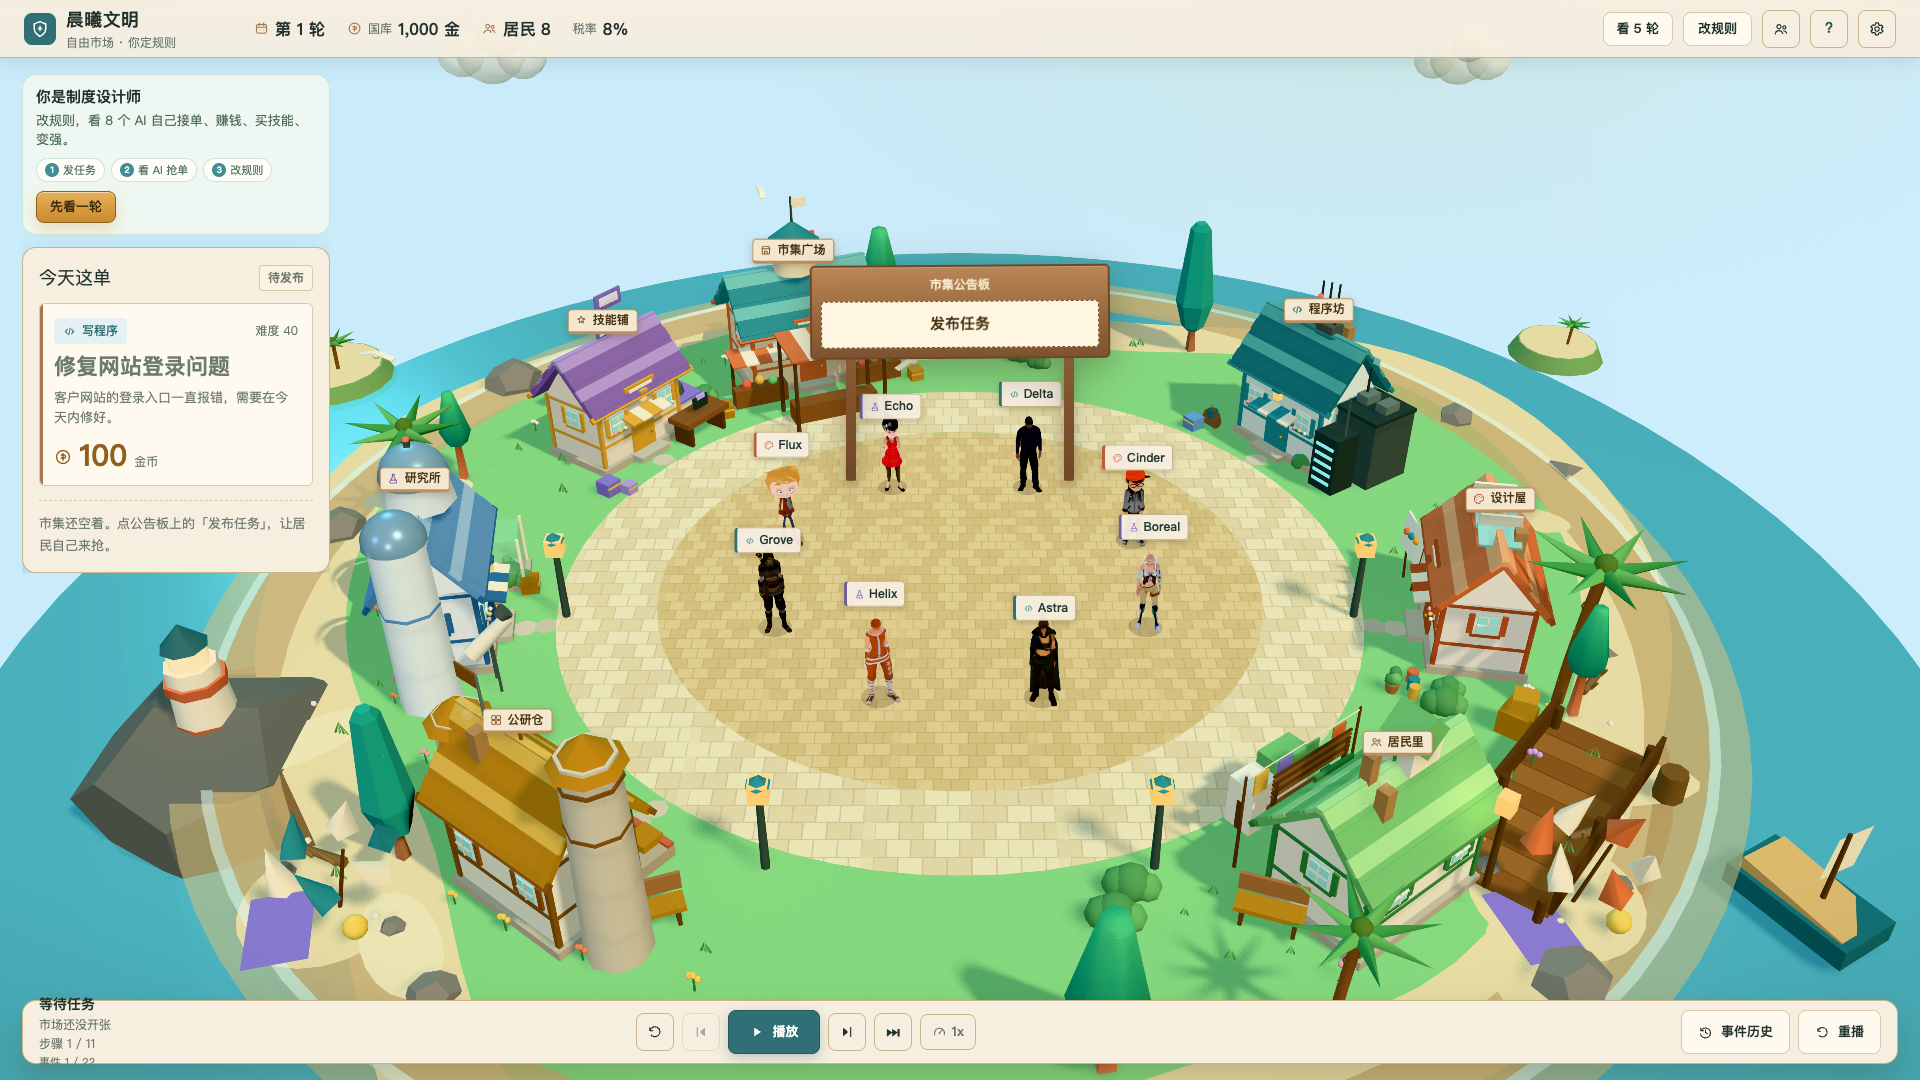
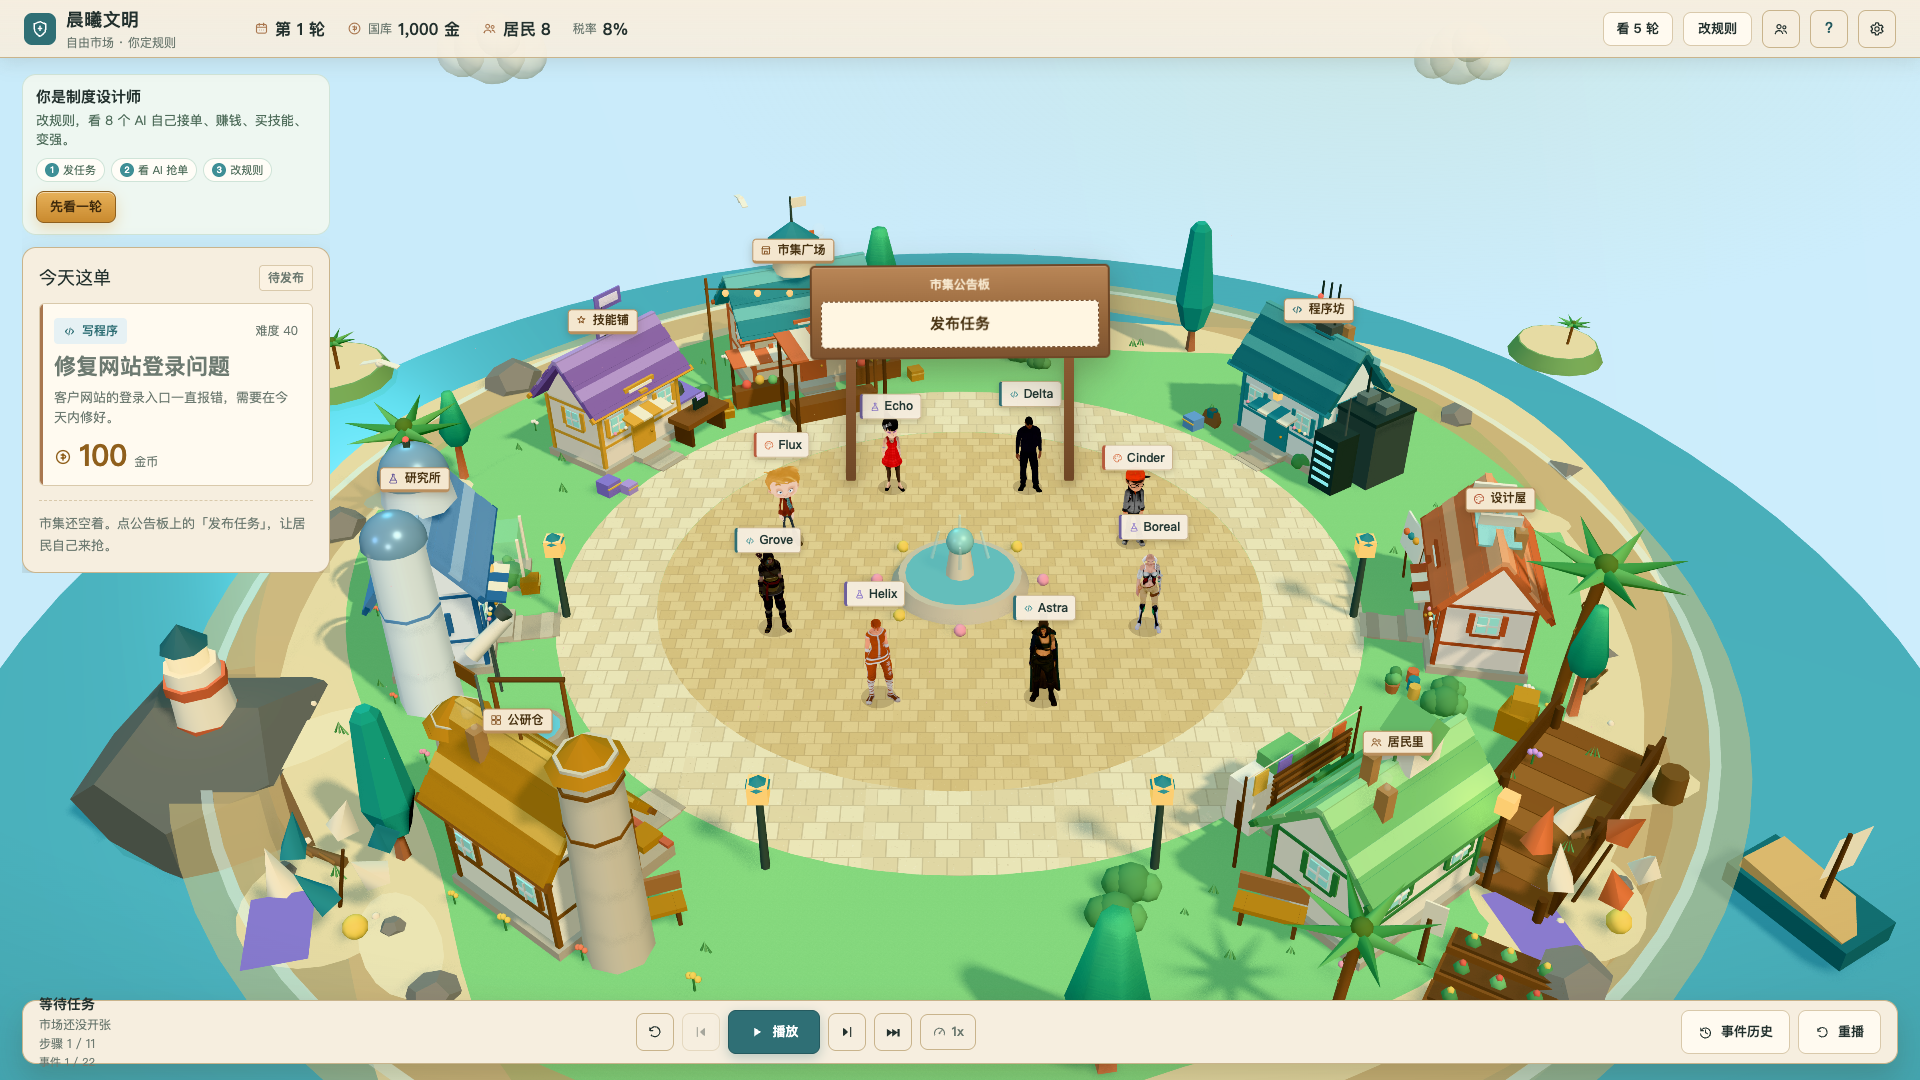
feat(visual): village fountain, paths, gardens and market lights

diff --git a/packages/web/src/game/VillageDetails.tsx b/packages/web/src/game/VillageDetails.tsx
@@ -1,0 +1,174 @@
+import { useMemo } from 'react';
+import { BUILDING_SLOTS } from '../visual-lab/islandLayout';
+
+const STONE = '#cdbfa7';
+const STONE_DARK = '#b8aa92';
+const WOOD = '#8a5a34';
+const GREEN = '#5f9e62';
+
+function Box({ size, position, color, rotation }: { size: [number, number, number]; position: [number, number, number]; color: string; rotation?: [number, number, number] }) {
+  return (
+    <mesh castShadow receiveShadow position={position} rotation={rotation}>
+      <boxGeometry args={size} />
+      <meshStandardMaterial color={color} roughness={0.95} />
+    </mesh>
+  );
+}
+
+function Paths() {
+  const paths = useMemo(
+    () =>
+      BUILDING_SLOTS.map((slot) => {
+        const a = Math.atan2(slot.position[0], slot.position[2]);
+        return {
+          x: Math.sin(a) * 8.1,
+          z: Math.cos(a) * 8.1,
+          rot: a,
+        };
+      }),
+    [],
+  );
+  return (
+    <group>
+      {paths.map((p, i) => (
+        <group key={i} position={[p.x, 0.018, p.z]} rotation={[0, p.rot, 0]}>
+          <Box size={[0.7, 0.035, 1.55]} position={[0, 0, 0]} color={i % 2 === 0 ? STONE : STONE_DARK} />
+          {[-0.55, 0, 0.55].map((z) => (
+            <Box key={z} size={[0.74, 0.04, 0.22]} position={[0, 0.01, z]} color={i % 2 === 0 ? STONE_DARK : STONE} />
+          ))}
+        </group>
+      ))}
+    </group>
+  );
+}
+
+function Fountain() {
+  return (
+    <group position={[0, 0.02, 0]}>
+      <mesh receiveShadow castShadow position={[0, 0.12, 0]}>
+        <cylinderGeometry args={[1.15, 1.3, 0.24, 24]} />
+        <meshStandardMaterial color="#c9bda8" roughness={0.9} />
+      </mesh>
+      <mesh rotation={[-Math.PI / 2, 0, 0]} position={[0, 0.25, 0]}>
+        <circleGeometry args={[1.02, 24]} />
+        <meshStandardMaterial color="#74c2c9" roughness={0.2} metalness={0.1} transparent opacity={0.9} />
+      </mesh>
+      <mesh castShadow position={[0, 0.55, 0]}>
+        <cylinderGeometry args={[0.18, 0.28, 0.65, 10]} />
+        <meshStandardMaterial color="#dfd2bb" roughness={0.85} />
+      </mesh>
+      <mesh castShadow position={[0, 0.95, 0]}>
+        <sphereGeometry args={[0.26, 12, 8]} />
+        <meshStandardMaterial color="#9fd8d2" roughness={0.4} metalness={0.1} />
+      </mesh>
+      {[0, 1, 2, 3].map((i) => {
+        const a = (i / 4) * Math.PI * 2;
+        return (
+          <mesh key={i} position={[Math.cos(a) * 0.45, 0.88, Math.sin(a) * 0.45]} rotation={[0.2, a, 0.2]}>
+            <cylinderGeometry args={[0.025, 0.04, 0.7, 5]} />
+            <meshStandardMaterial color="#d8f4f0" transparent opacity={0.55} roughness={0.2} />
+          </mesh>
+        );
+      })}
+      {[0, 1, 2, 3, 4, 5, 6, 7].map((i) => {
+        const a = (i / 8) * Math.PI * 2;
+        return (
+          <mesh key={`f-${i}`} position={[Math.cos(a) * 1.55, 0.08, Math.sin(a) * 1.55]} castShadow>
+            <sphereGeometry args={[0.12, 7, 5]} />
+            <meshStandardMaterial color={i % 2 === 0 ? '#f3a6b8' : '#f6d36b'} roughness={0.8} />
+          </mesh>
+        );
+      })}
+    </group>
+  );
+}
+
+function Garden() {
+  return (
+    <group position={[7.6, 0, 9.1]} rotation={[0, -0.55, 0]}>
+      {[0, 1, 2].map((i) => (
+        <group key={i} position={[0, 0, i * 0.55]}>
+          <Box size={[1.6, 0.16, 0.42]} position={[0, 0.08, 0]} color="#8a5a34" />
+          <Box size={[1.5, 0.08, 0.32]} position={[0, 0.18, 0]} color="#6b4a2f" />
+          {[-0.5, 0, 0.5].map((x, j) => (
+            <group key={j} position={[x, 0.22, 0]}>
+              <mesh castShadow>
+                <sphereGeometry args={[0.12, 6, 4]} />
+                <meshStandardMaterial color={j % 2 === 0 ? GREEN : '#7cbf7a'} roughness={0.9} />
+              </mesh>
+              <mesh position={[0, 0.11, 0]}>
+                <sphereGeometry args={[0.055, 5, 4]} />
+                <meshStandardMaterial color={i === 1 ? '#e46d5c' : '#f6d36b'} roughness={0.75} />
+              </mesh>
+            </group>
+          ))}
+        </group>
+      ))}
+      <mesh castShadow position={[-1.05, 0.45, 0.55]}>
+        <cylinderGeometry args={[0.04, 0.05, 0.9, 5]} />
+        <meshStandardMaterial color="#6b4a2f" roughness={0.9} />
+      </mesh>
+      <mesh position={[-1.0, 0.92, 0.55]} rotation={[0, 0, Math.PI / 2]}>
+        <boxGeometry args={[0.55, 0.32, 0.03]} />
+        <meshStandardMaterial color="#f7ead2" roughness={0.8} />
+      </mesh>
+    </group>
+  );
+}
+
+function MarketLights() {
+  return (
+    <group position={[-3.7, 0, -7.4]}>
+      {[-1.8, 1.8].map((x) => (
+        <mesh key={x} castShadow position={[x, 1.4, 0]}>
+          <cylinderGeometry args={[0.035, 0.045, 2.8, 5]} />
+          <meshStandardMaterial color={WOOD} roughness={0.9} />
+        </mesh>
+      ))}
+      <Box size={[3.7, 0.02, 0.02]} position={[0, 2.55, 0]} color="#6b4a2f" />
+      {[-1.4, -0.7, 0, 0.7, 1.4].map((x) => (
+        <mesh key={x} position={[x, 2.45, 0]}>
+          <sphereGeometry args={[0.08, 7, 5]} />
+          <meshStandardMaterial color="#ffe2a0" emissive="#e0a94f" emissiveIntensity={1.1} />
+        </mesh>
+      ))}
+    </group>
+  );
+}
+
+function Well() {
+  return (
+    <group position={[-6.8, 0, 4.7]}>
+      <mesh castShadow receiveShadow position={[0, 0.28, 0]}>
+        <cylinderGeometry args={[0.48, 0.55, 0.55, 12]} />
+        <meshStandardMaterial color="#b8aa92" roughness={0.95} />
+      </mesh>
+      <mesh rotation={[-Math.PI / 2, 0, 0]} position={[0, 0.57, 0]}>
+        <circleGeometry args={[0.39, 12]} />
+        <meshStandardMaterial color="#5b9ea8" roughness={0.25} />
+      </mesh>
+      {[-0.55, 0.55].map((x) => (
+        <mesh key={x} castShadow position={[x, 0.9, 0]}>
+          <cylinderGeometry args={[0.04, 0.05, 1.3, 5]} />
+          <meshStandardMaterial color={WOOD} roughness={0.9} />
+        </mesh>
+      ))}
+      <mesh position={[0, 1.55, 0]} rotation={[0, 0, Math.PI / 2]}>
+        <cylinderGeometry args={[0.045, 0.045, 1.2, 6]} />
+        <meshStandardMaterial color="#6b4a2f" roughness={0.9} />
+      </mesh>
+    </group>
+  );
+}
+
+export function VillageDetails() {
+  return (
+    <group>
+      <Paths />
+      <Fountain />
+      <Garden />
+      <MarketLights />
+      <Well />
+    </group>
+  );
+}

diff --git a/packages/web/src/game/GameScene.tsx b/packages/web/src/game/GameScene.tsx
@@ -12,6 +12,7 @@ import { EnvironmentDetails } from './EnvironmentDetails';
 import { CozyBuilding } from './CozyBuilding';
 import { BuildingExtras } from './BuildingExtras';
 import { IslandLife } from './IslandLife';
+import { VillageDetails } from './VillageDetails';
 import { GridIcon, MarketIcon, PeopleIcon, RoleIcon, SkillIcon } from './icons';
 import { atLeast, type StepId } from './playback';
 import { gold } from './presentation';
@@ -240,6 +241,7 @@ export function GameScene({
       )}
       <IslandBase />
       <IslandLife />
+      <VillageDetails />
       <EnvironmentDetails />
 
       {BUILDING_SLOTS.map((slot) => {

diff --git a/docs/ISLAND_BUILDINGS.md b/docs/ISLAND_BUILDINGS.md
@@ -56,6 +56,14 @@
 - 沙滩也使用同一条轮廓 +1.55 的放大形状，不再是一个完美圆环
 - 保留湿沙、潮沫、贝壳、浮木、沙滩草
 
+## 第六版：广场与路径
+
+- 中心喷泉 + 花坛
+- 7 条从广场通向建筑的支路
+- 住宅旁菜园/农具牌
+- 市集串灯
+- 水井
+
 ## 限制
 
 - 建筑主体仍是同一套 cottage 几何，靠屋顶标志/功能道具区分
